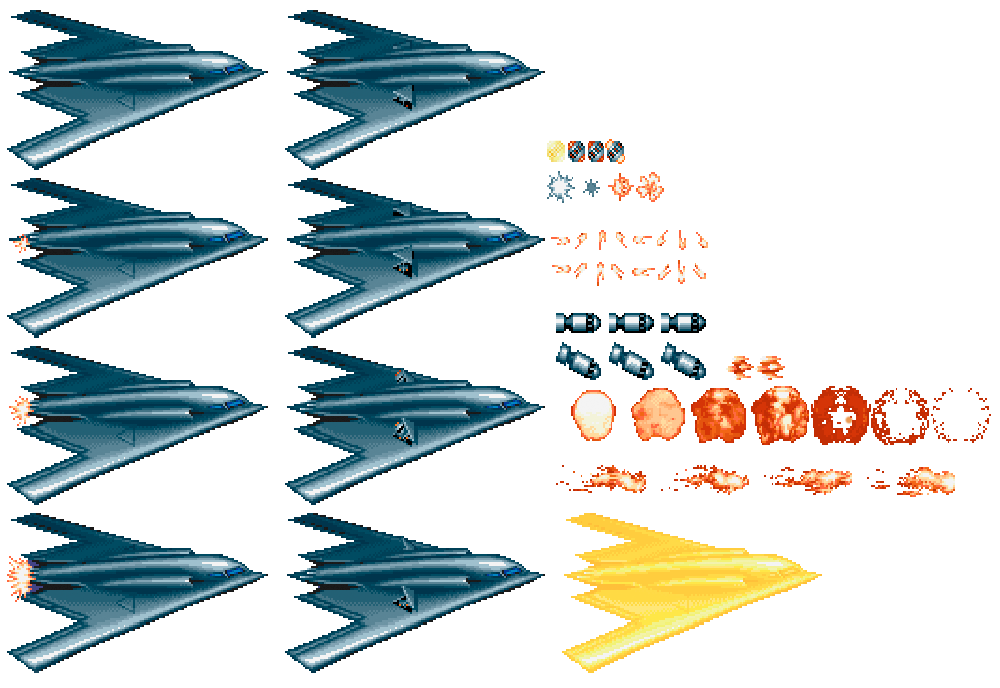
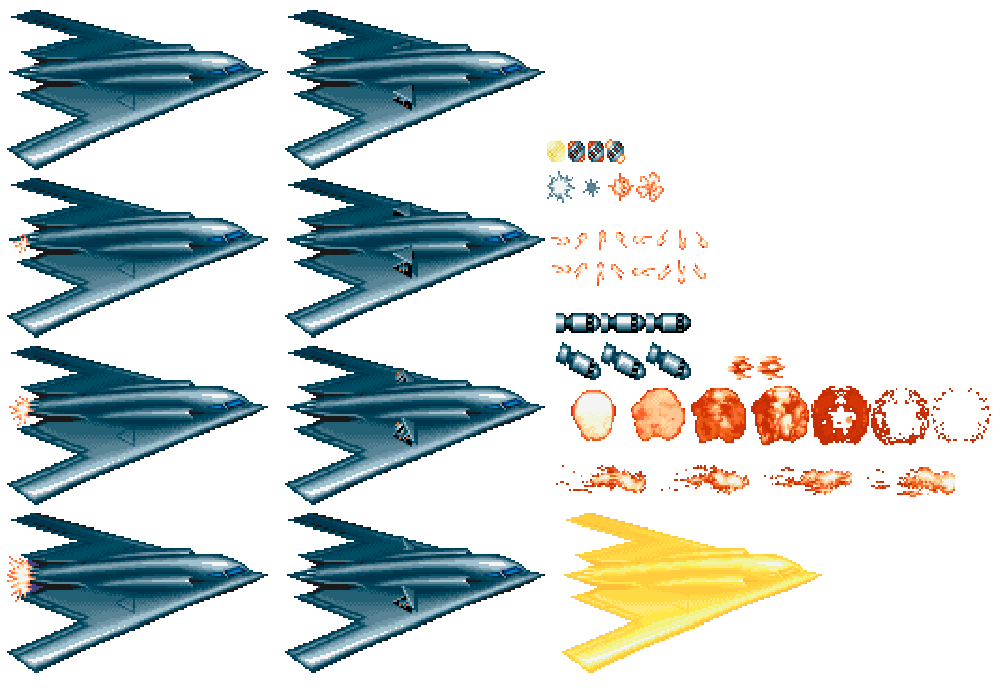
Moab boss 0.1

Changed region(s): [[0.589, 0.4578, 0.713, 0.5494]]

diff --git a/Project_7_Handout/Source/ModuleCollisions.cpp b/Project_7_Handout/Source/ModuleCollisions.cpp
@@ -11,17 +11,6 @@ ModuleCollisions::ModuleCollisions(bool startEnabled) : Module(startEnabled)
 	for(uint i = 0; i < MAX_COLLIDERS; ++i)
 		colliders[i] = nullptr;
 
-	matrix[Collider::Type::WALL][Collider::Type::WALL] = false;
-	matrix[Collider::Type::WALL][Collider::Type::PLAYER] = true;
-	matrix[Collider::Type::WALL][Collider::Type::ENEMY] = true;
-	matrix[Collider::Type::WALL][Collider::Type::PLAYER_SHOT] = true;
-	matrix[Collider::Type::WALL][Collider::Type::SW_BOMB] = true;
-	matrix[Collider::Type::WALL][Collider::Type::SW_CEILING] = true;
-	matrix[Collider::Type::WALL][Collider::Type::SW_GUNPOD] = true;
-	matrix[Collider::Type::WALL][Collider::Type::SW_S_SHELL] = true;
-	matrix[Collider::Type::WALL][Collider::Type::ENEMY_SHOT] = true;
-	matrix[Collider::Type::WALL][Collider::Type::M_BOSS1] = false;
-
 	matrix[Collider::Type::PLAYER][Collider::Type::WALL] = true;
 	matrix[Collider::Type::PLAYER][Collider::Type::PLAYER] = false;
 	matrix[Collider::Type::PLAYER][Collider::Type::ENEMY] = true;
@@ -36,7 +25,6 @@ ModuleCollisions::ModuleCollisions(bool startEnabled) : Module(startEnabled)
 	matrix[Collider::Type::PLAYER][Collider::Type::BOSS1] = true;
 	matrix[Collider::Type::PLAYER][Collider::Type::BOSS2] = true;
 
-	matrix[Collider::Type::ENEMY][Collider::Type::WALL] = true;
 	matrix[Collider::Type::ENEMY][Collider::Type::PLAYER] = true;
 	matrix[Collider::Type::ENEMY][Collider::Type::ENEMY] = false;
 	matrix[Collider::Type::ENEMY][Collider::Type::PLAYER_SHOT] = true;
@@ -51,7 +39,6 @@ ModuleCollisions::ModuleCollisions(bool startEnabled) : Module(startEnabled)
 	matrix[Collider::Type::ENEMY][Collider::Type::BOSS1] = false;
 	matrix[Collider::Type::ENEMY][Collider::Type::BOSS2] = false;
 
-	matrix[Collider::Type::PLAYER_SHOT][Collider::Type::WALL] = true;
 	matrix[Collider::Type::PLAYER_SHOT][Collider::Type::PLAYER] = false;
 	matrix[Collider::Type::PLAYER_SHOT][Collider::Type::ENEMY] = true;
 	matrix[Collider::Type::PLAYER_SHOT][Collider::Type::PLAYER_SHOT] = false;
@@ -65,8 +52,9 @@ ModuleCollisions::ModuleCollisions(bool startEnabled) : Module(startEnabled)
 	matrix[Collider::Type::PLAYER_SHOT][Collider::Type::M_BOSS1] = true;
 	matrix[Collider::Type::PLAYER_SHOT][Collider::Type::BOSS1] = true;
 	matrix[Collider::Type::PLAYER_SHOT][Collider::Type::BOSS2] = true;
+	matrix[Collider::Type::PLAYER_SHOT][Collider::Type::BOSS_SHOT_LASER] = false;
+	matrix[Collider::Type::PLAYER_SHOT][Collider::Type::BOSS_BURSTSHOT] = false;
 
-	matrix[Collider::Type::ENEMY_SHOT][Collider::Type::WALL] = true;
 	matrix[Collider::Type::ENEMY_SHOT][Collider::Type::PLAYER] = true;
 	matrix[Collider::Type::ENEMY_SHOT][Collider::Type::ENEMY] = false;
 	matrix[Collider::Type::ENEMY_SHOT][Collider::Type::PLAYER_SHOT] = false;
@@ -80,7 +68,6 @@ ModuleCollisions::ModuleCollisions(bool startEnabled) : Module(startEnabled)
 	matrix[Collider::Type::ENEMY_SHOT][Collider::Type::BOSS1] = false;
 	matrix[Collider::Type::ENEMY_SHOT][Collider::Type::BOSS2] = false;
 
-	matrix[Collider::Type::M_BOSS1_SHOT][Collider::Type::WALL] = true;
 	matrix[Collider::Type::M_BOSS1_SHOT][Collider::Type::M_BOSS1_SHOT] = false;
 	matrix[Collider::Type::M_BOSS1_SHOT][Collider::Type::PLAYER] = true;
 	matrix[Collider::Type::M_BOSS1_SHOT][Collider::Type::ENEMY] = false;
@@ -93,7 +80,6 @@ ModuleCollisions::ModuleCollisions(bool startEnabled) : Module(startEnabled)
 	matrix[Collider::Type::M_BOSS1_SHOT][Collider::Type::NONE] = false;
 	matrix[Collider::Type::M_BOSS1_SHOT][Collider::Type::M_BOSS1] = false;
 	
-	matrix[Collider::Type::BOSS1][Collider::Type::WALL] = true;
 	matrix[Collider::Type::BOSS1][Collider::Type::PLAYER] = true;
 	matrix[Collider::Type::BOSS1][Collider::Type::ENEMY] = false;
 	matrix[Collider::Type::BOSS1][Collider::Type::PLAYER_SHOT] = true;
@@ -108,8 +94,6 @@ ModuleCollisions::ModuleCollisions(bool startEnabled) : Module(startEnabled)
 	matrix[Collider::Type::BOSS1][Collider::Type::BOSS_SHOT_LASER] = false;
 	matrix[Collider::Type::BOSS1][Collider::Type::BOSS_BURSTSHOT] = false;
 
-
-	matrix[Collider::Type::NONE][Collider::Type::WALL] = false;
 	matrix[Collider::Type::NONE][Collider::Type::M_BOSS1_SHOT] = false;
 	matrix[Collider::Type::NONE][Collider::Type::PLAYER] = false;
 	matrix[Collider::Type::NONE][Collider::Type::ENEMY] = false;
@@ -137,7 +121,6 @@ ModuleCollisions::ModuleCollisions(bool startEnabled) : Module(startEnabled)
 	matrix[Collider::Type::BOSS_EXPLOSION_BALL][Collider::Type::BOSS1] = false;
 	matrix[Collider::Type::BOSS_EXPLOSION_BALL][Collider::Type::BOSS_SHOT_LASER] = false;
 
-	matrix[Collider::Type::SW_BOMB][Collider::Type::WALL] = true;
 	matrix[Collider::Type::SW_BOMB][Collider::Type::PLAYER] = false;
 	matrix[Collider::Type::SW_BOMB][Collider::Type::ENEMY] = true;
 	matrix[Collider::Type::SW_BOMB][Collider::Type::M_BOSS1] = true;
@@ -155,8 +138,6 @@ ModuleCollisions::ModuleCollisions(bool startEnabled) : Module(startEnabled)
 	matrix[Collider::Type::SW_BOMB][Collider::Type::NONE] = false;
 	matrix[Collider::Type::SW_BOMB][Collider::Type::BOSS2] = true;
 
-
-	matrix[Collider::Type::SW_CEILING][Collider::Type::WALL] = true;
 	matrix[Collider::Type::SW_CEILING][Collider::Type::PLAYER] = false;
 	matrix[Collider::Type::SW_CEILING][Collider::Type::ENEMY] = true;
 	matrix[Collider::Type::SW_CEILING][Collider::Type::M_BOSS1] = true;
@@ -174,7 +155,6 @@ ModuleCollisions::ModuleCollisions(bool startEnabled) : Module(startEnabled)
 	matrix[Collider::Type::SW_CEILING][Collider::Type::NONE] = false;
 	matrix[Collider::Type::SW_CEILING][Collider::Type::BOSS2] = true;
 
-	matrix[Collider::Type::SW_GUNPOD][Collider::Type::WALL] = true;
 	matrix[Collider::Type::SW_GUNPOD][Collider::Type::PLAYER] = false;
 	matrix[Collider::Type::SW_GUNPOD][Collider::Type::ENEMY] = true;
 	matrix[Collider::Type::SW_GUNPOD][Collider::Type::M_BOSS1] = true;
@@ -192,7 +172,6 @@ ModuleCollisions::ModuleCollisions(bool startEnabled) : Module(startEnabled)
 	matrix[Collider::Type::SW_GUNPOD][Collider::Type::NONE] = false;
 	matrix[Collider::Type::SW_GUNPOD][Collider::Type::BOSS2] = true;
 
-	matrix[Collider::Type::SW_S_SHELL][Collider::Type::WALL] = true;
 	matrix[Collider::Type::SW_S_SHELL][Collider::Type::PLAYER] = false;
 	matrix[Collider::Type::SW_S_SHELL][Collider::Type::ENEMY] = true;
 	matrix[Collider::Type::SW_S_SHELL][Collider::Type::M_BOSS1] = true;
@@ -210,7 +189,6 @@ ModuleCollisions::ModuleCollisions(bool startEnabled) : Module(startEnabled)
 	matrix[Collider::Type::SW_S_SHELL][Collider::Type::NONE] = false;
 	matrix[Collider::Type::SW_S_SHELL][Collider::Type::BOSS2] = true;
 
-	matrix[Collider::Type::M_BOSS1][Collider::Type::WALL] = false;
 	matrix[Collider::Type::M_BOSS1][Collider::Type::M_BOSS1_SHOT] = false;
 	matrix[Collider::Type::M_BOSS1][Collider::Type::PLAYER] = true;
 	matrix[Collider::Type::M_BOSS1][Collider::Type::ENEMY] = false;
@@ -223,7 +201,6 @@ ModuleCollisions::ModuleCollisions(bool startEnabled) : Module(startEnabled)
 	matrix[Collider::Type::M_BOSS1][Collider::Type::M_BOSS1] = false;
 	matrix[Collider::Type::M_BOSS1][Collider::Type::NONE] = false;
 
-	matrix[Collider::Type::BOSS2][Collider::Type::WALL] = true;
 	matrix[Collider::Type::BOSS2][Collider::Type::PLAYER] = true;
 	matrix[Collider::Type::BOSS2][Collider::Type::ENEMY] = false;
 	matrix[Collider::Type::BOSS2][Collider::Type::PLAYER_SHOT] = true;

diff --git a/Project_7_Handout/Source/ModuleParticles.cpp b/Project_7_Handout/Source/ModuleParticles.cpp
@@ -45,8 +45,15 @@ bool ModuleParticles::Start(){
 	ballShotBoss1.explodes = true;
 
 	//Moab
-	pMoabBoss1.path.PushBack({0,0},0,nullptr);
-	aMoabBoss1.PushBack({0,0,0,0});
+	for (int i = 0; i < 3; i++) 
+		pMoabBoss1.anim.PushBack({ 556+(45*i),313,45,20 });
+	for (int i = 0; i < 3; i++) {
+		pMoabBoss1.anim.PushBack({ 556 + (45 * i),342,45,38 });
+		pMoabBoss1.anim.PushBack({ 556 + (45 * i),342,45,38 });
+	}
+	pMoabBoss1.anim.speed = 0.2f;
+	pMoabBoss1.speed.y = 3.0f;
+	pMoabBoss1.explodes = true;
 	
 
 	//Boss1 laser
@@ -230,7 +237,7 @@ update_status ModuleParticles::PreUpdate()
 
 void ModuleParticles::laserBallExplosion( const uint& i)
 {
-	float spdL = 2;
+	float spdL = 4;
 	float rad = 45 * PI / 180;
 	bossBallLaser.explodes = false;
 	bossBallLaser.speed = { spdL + SCREEN_SPEED, 0.0f };
@@ -304,7 +311,7 @@ update_status ModuleParticles::PostUpdate()
 		if (particle != nullptr && particle->collider != nullptr && particle->isAlive)
 		{
 			colliderI = particle->collider;
-			if (colliderI->type == Collider::Type::BOSS1_SHOT_BALL|| colliderI->type == Collider::Type::BOSS_MOAB) {
+			if (colliderI->type == Collider::Type::BOSS1_SHOT_BALL) {
 				pathRefresh(particle);
 				App->render->Blit(boss1Tx, particle->position.x, particle->position.y, &(particle->path.GetCurrentAnimation()->GetCurrentFrame()));
 				 if (particle->path.isFinish)particle->SetToDelete();
@@ -327,11 +334,9 @@ update_status ModuleParticles::PostUpdate()
 			else if (colliderI->type == Collider::Type::PLAYER_SHOT|| colliderI->type == Collider::Type::BOSS_SHOT_LASER) {
 				App->render->Blit(playerShotTexture, particle->position.x, particle->position.y, &(particle->anim.GetCurrentFrame()));
 			}
-			//Ball boss's explosion
-			else if (colliderI->type == Collider::Type::BOSS_EXPLOSION_BALL || colliderI->type == Collider::Type::BOSS_BURSTSHOT) {
+			else if (colliderI->type == Collider::Type::BOSS_EXPLOSION_BALL || colliderI->type == Collider::Type::BOSS_BURSTSHOT|| colliderI->type == Collider::Type::BOSS_MOAB) {
 				App->render->Blit(boss1Tx, particle->position.x, particle->position.y, &(particle->anim.GetCurrentFrame()));
 			}
-	
 			else if (colliderI->type == Collider::Type::NONE && colliderI->type!=Collider::Type::BOSS_EXPLOSION_BALL) {
 				if (App->player->destroyed == true) {
 					

diff --git a/Project_7_Handout/Source/Enemy_FinalBoss1.cpp b/Project_7_Handout/Source/Enemy_FinalBoss1.cpp
@@ -156,12 +156,10 @@ void Enemy_FinalBoss1::burstShot() {
 	if (timerBurstShot->check() && burst < 4) {
 		App->particles->AddParticle(App->particles->pBurstshotBallBoss1, position.x, position.y + 60, Collider::Type::BOSS_BURSTSHOT);
 		//Insert sound here
+		moab();
 		++burst;
 	}
 }void Enemy_FinalBoss1::moab() {
-
-	/*if () {
-		App->particles->AddParticle(, position.x, position.y , Collider::Type::);
-
-	}*/
+		App->particles->AddParticle(App->particles->pMoabBoss1, position.x + 105, position.y + 120, Collider::Type::BOSS_MOAB);
+	
 }

diff --git a/Project_7_Handout/Source/ModuleScene.cpp b/Project_7_Handout/Source/ModuleScene.cpp
@@ -127,7 +127,7 @@ bool ModuleScene::Start(){
 	App->enemies->spawningEnemies(4, ENEMY_TYPE::YELLOWSHIP, 5250, 100, 20, 2);	//WAVE 17
 	App->enemies->spawningEnemies(4, ENEMY_TYPE::REDSHIP, 5250, 340, 20, 1);	//WAVE 17
 	
-	int testBoss = 0;// 4800;
+	int testBoss =   4800;
 	App->enemies->spawningEnemies(1, ENEMY_TYPE::BOSS1, 5700-testBoss, SCREEN_HEIGHT-90, 0, 0);	//FINAL BOSS
 	
 	App->render->camera.x = 0;

diff --git a/Project_7_Handout/Source/ModuleParticles.h b/Project_7_Handout/Source/ModuleParticles.h
@@ -99,7 +99,7 @@ public:
 	Particle ballShotBoss1;
 	Particle pExplBallBoss1;
 	Particle pBurstshotBallBoss1;
-	Particle pMoabBoss1;
+
 
 	Particle bossBallLaser;
 
@@ -108,7 +108,9 @@ public:
 	Animation mBoss1ShotClose;
 	Animation hitMBoss1;
 
+	Particle pMoabBoss1;
 	Animation aMoabBoss1;
+	Animation aMoabDownBoss1;
 
 	Animation animBallShotBoss1;
 	Animation hitBallShotBoss1;
